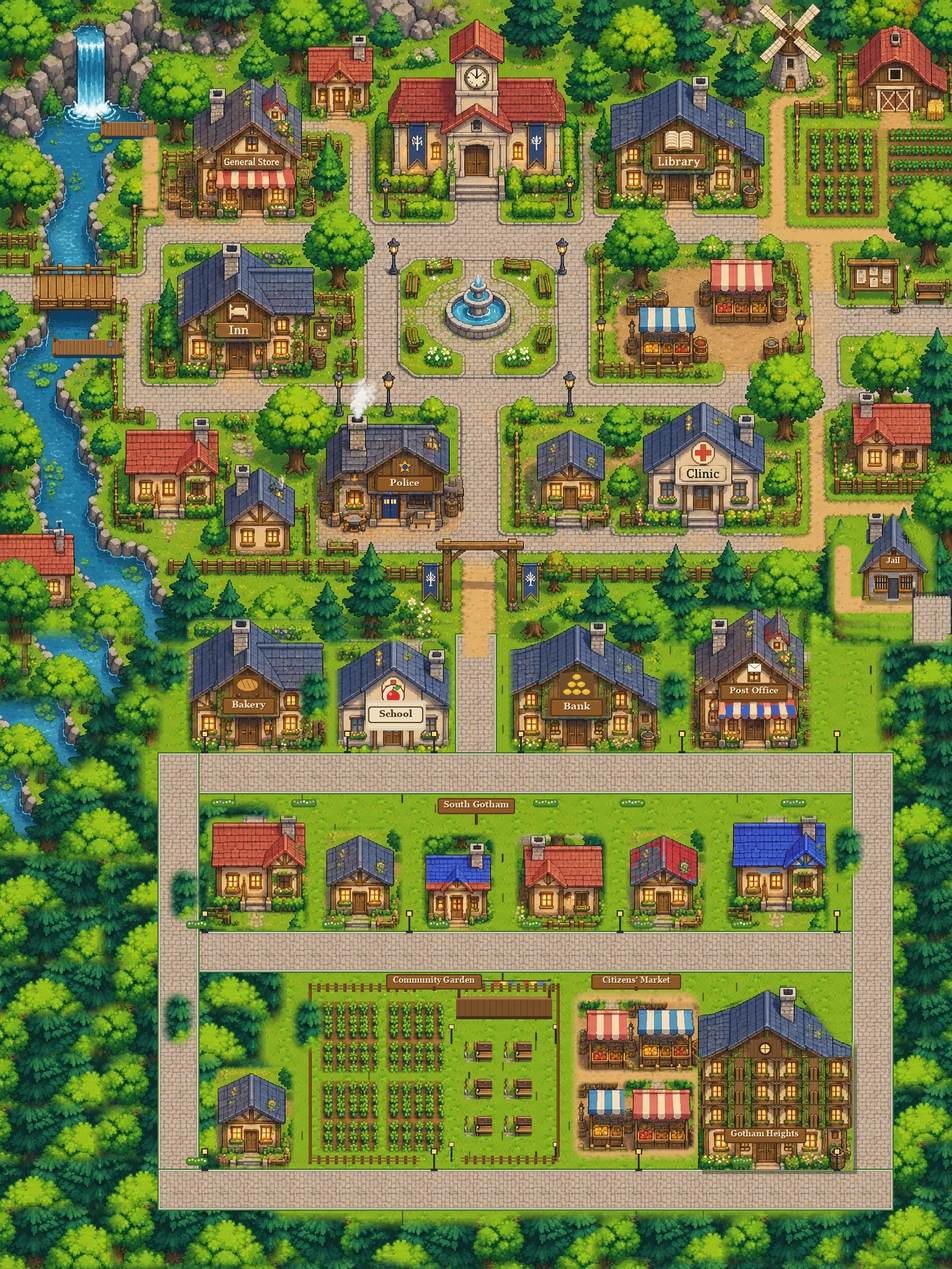
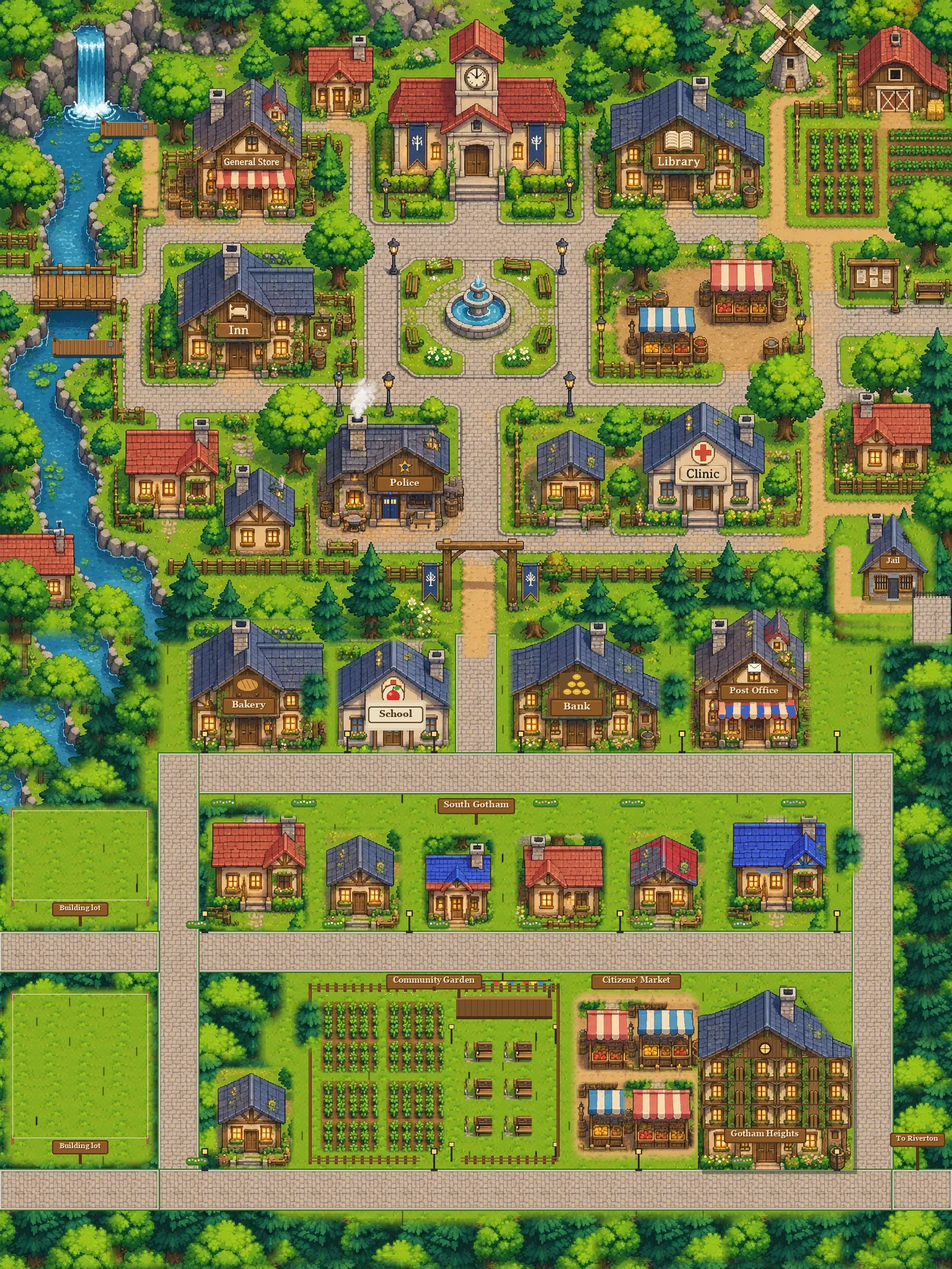
Clear two building lots and add the road to Riverton on the map

Changed region(s): [[0.0, 0.625, 0.2188, 0.9688], [0.9375, 0.875, 1.0, 0.9688], [0.1562, 0.5, 0.2188, 0.5625]]

diff --git a/tools/mapgen/2_compose.py b/tools/mapgen/2_compose.py
@@ -82,6 +82,9 @@ roads = [
     (256, 1216, 320, 1952, True),   # west lane (tx 8-9)
     (1376, 1216, 1440, 1952, True), # east lane (tx 43-44)
     (256, 1888, 1440, 1952, False), # Garden Lane (ty 59-60)
+    (0, 1504, 256, 1568, False),    # Cottage Row west, to the lower building lot
+    (0, 1888, 256, 1952, False),    # Garden Lane west, to the upper building lot
+    (1440, 1888, 1536, 1952, False),# the road east to Riverton
 ]
 for x0, y0, x1, y1, v in roads: road((x0, y0, x1, y1), v)
 # gate dirt runs into the avenue
@@ -181,7 +184,7 @@ for crop, at, fx in homes: building(crop, at, fx)
 
 # ---- a few trees and lamps between buildings ----
 pine = src.crop((1385, 885, 1440, 975))
-for x, y in [(250, 1040), (480, 1080), (1060, 1240 - 160), (1440, 1100), (270, 1400), (1340, 1330)]:
+for x, y in [(480, 1080), (1060, 1240 - 160), (1440, 1100), (1340, 1330)]:
     im.paste(pine, (x, y), feather(pine.size, 6, 20))
 d = ImageDraw.Draw(im)
 def lamp(x, y):
@@ -300,7 +303,7 @@ im.paste(apt, (ax, ay), am)
 d = ImageDraw.Draw(im)
 building((860, 680, 990, 850), (345, 1718), None)
 pine = src.crop((1385, 885, 1440, 975))
-for x, y in [(260, 1600), (470, 1610)]:
+for x, y in [(470, 1610)]:
     im.paste(pine, (x, y), feather(pine.size, 6, 20))
 d = ImageDraw.Draw(im)
 for x in (330, 700, 1030, 1350): lamp(x, 1862)
@@ -317,5 +320,30 @@ for x in (300, 520, 690, 840, 1020, 1180):  # in front of Cottage Row
     flower_bed(x, 1486, 34)
 for x in (300, 1180):                        # Garden Lane
     flower_bed(x, 1868, 34)
+
+# ---- two building lots, cleared from the western woods ----
+def lot(x0, y0, x1, y1):
+    g = tile_fill(grass, (x0, y0, x1, y1), 2).filter(ImageFilter.SMOOTH)
+    im.paste(g, (x0, y0), feather(g.size, 6, 22))
+    dd = ImageDraw.Draw(im)
+    for _ in range(40):
+        x, y = random.randint(x0 + 10, x1 - 10), random.randint(y0 + 10, y1 - 10)
+        dd.line([(x, y), (x, y - 3)], fill=(84, 140, 30))
+    # a "for sale" sign by the road
+    sx, sy = (x0 + x1) // 2, y1 - 30
+    dd.rectangle([sx - 2, sy, sx + 2, sy + 22], fill=(84, 52, 24))
+    sign(dd, sx, sy - 14, "Building lot", 11, minw=86)
+    # stakes and string marking the plot
+    for (px, py) in [(x0 + 16, y0 + 16), (x1 - 16, y0 + 16), (x0 + 16, y1 - 46), (x1 - 16, y1 - 46)]:
+        dd.rectangle([px - 2, py - 8, px + 2, py + 6], fill=(150, 104, 58))
+    dd.line([(x0 + 16, y0 + 12), (x1 - 16, y0 + 12)], fill=(230, 220, 200)); dd.line([(x0 + 16, y1 - 50), (x1 - 16, y1 - 50)], fill=(230, 220, 200))
+    dd.line([(x0 + 16, y0 + 12), (x0 + 16, y1 - 50)], fill=(230, 220, 200)); dd.line([(x1 - 16, y0 + 12), (x1 - 16, y1 - 50)], fill=(230, 220, 200))
+lot(4, 1296, 254, 1502)     # lot A, on Cottage Row
+lot(4, 1592, 254, 1886)     # lot B, on Garden Lane
+
+# ---- signpost to Riverton ----
+d = ImageDraw.Draw(im)
+d.rectangle([1478, 1846, 1482, 1888], fill=(84, 52, 24))
+sign(d, 1480, 1830, "To Riverton", 11, minw=84)
 im.save(os.path.join(HERE, '..', '..', 'public', 'assets', 'town.webp'), 'WEBP', quality=93, method=6)
 
